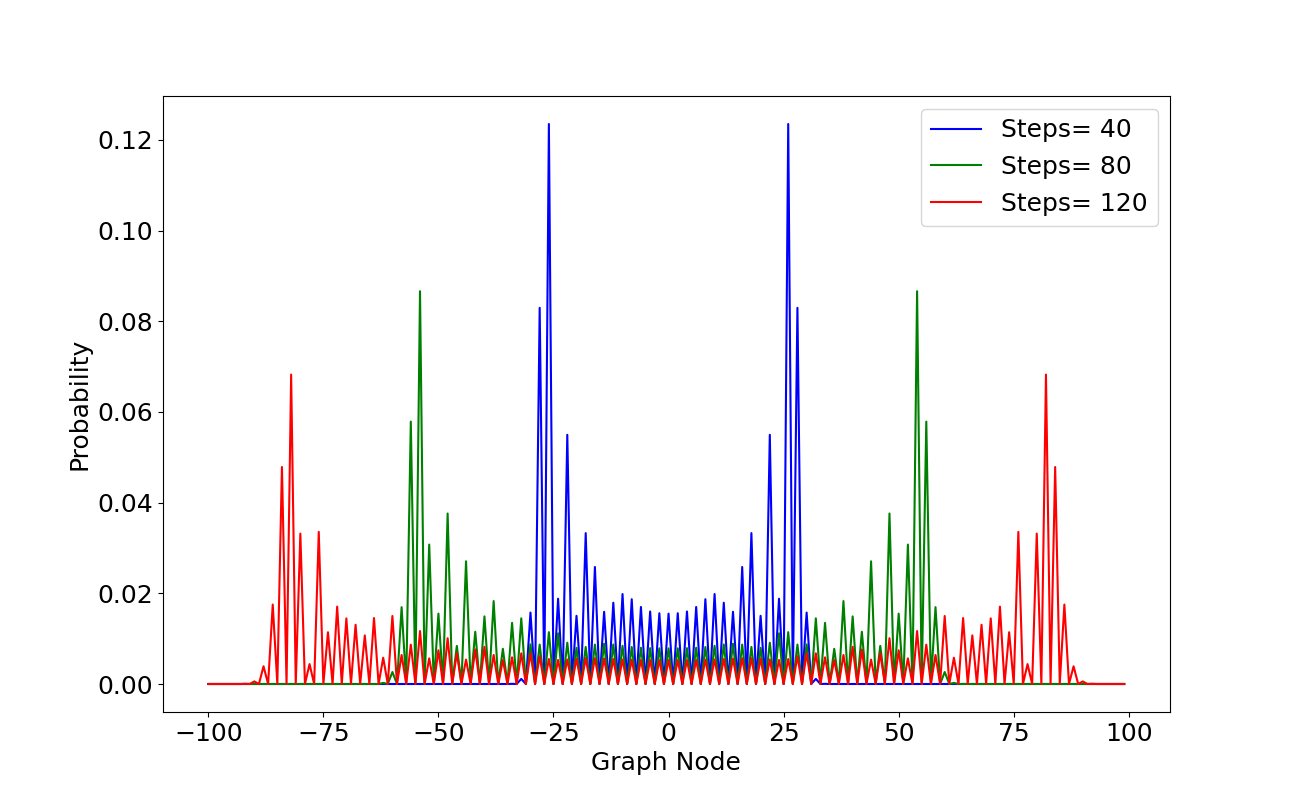
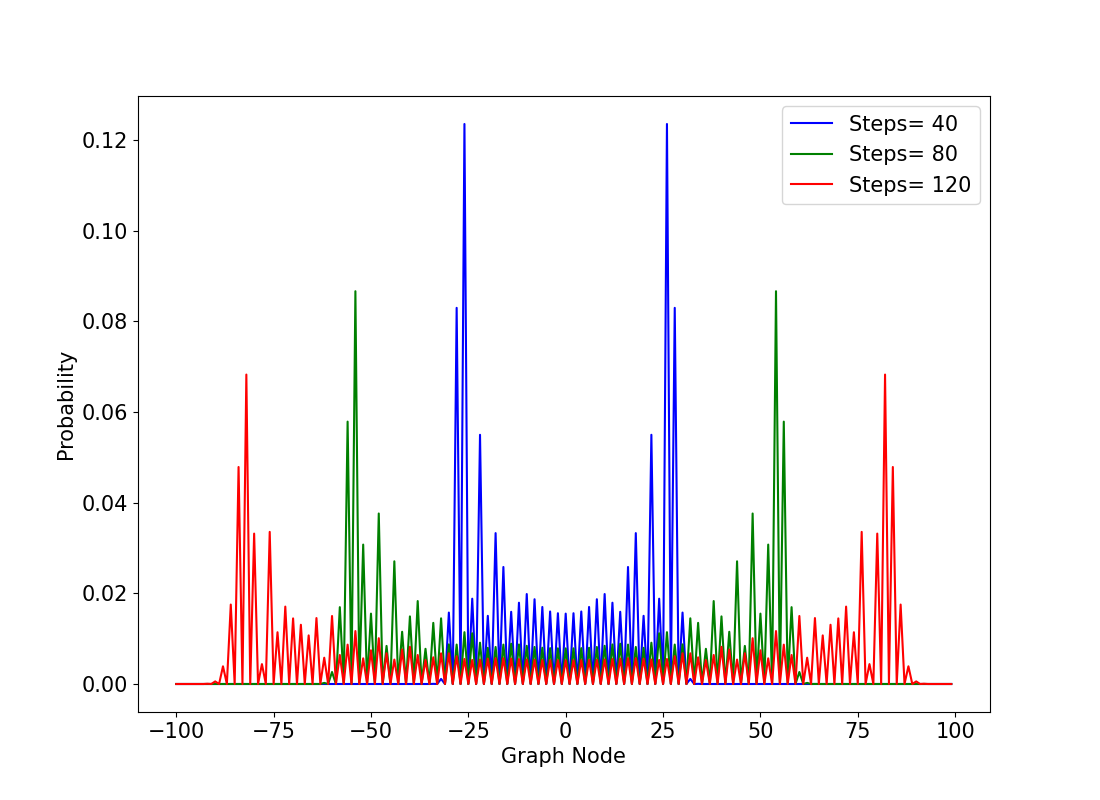
Continuous time plot results

diff --git a/Coding/Python Simulations/ContinuousQW/ctqw.py b/Coding/Python Simulations/ContinuousQW/ctqw.py
@@ -2,14 +2,16 @@ from numpy import *
 import matplotlib.pyplot as plt
 from graphs import *
 from scipy import linalg
+rcParams['figure.figsize'] = 11, 8
+matplotlib.rcParams.update({'font.size': 15})
 
-def init_state(N): #generalizar isto ?
+def init_state(N,initcond): #generalizar isto ?
     psi0 = np.zeros((N,1))
-    # psi0[int(N/2)-1] = 1/sqrt(2)
-    # psi0[int(N/2)+1] = 1/sqrt(2)
-    # psi0[0] = 1/sqrt(2)
-    psi0[int(N/2)-1] = 1/sqrt(2)
-    psi0[int(N/2)] = 1/sqrt(2)
+    if initcond == 'sup':
+        psi0[int(N/2)-1] = 1/sqrt(2)
+        psi0[int(N/2)] = 1/sqrt(2)
+    if initcond== '0':
+        psi0[int(N/2)] = 1
     return psi0
 
 def final_state(Op,psi0):
@@ -26,38 +28,47 @@ def prob_vec(psiN,N):
         probs[x]=psiN[x]*conjugate(psiN[x]) #duvida aqui
     return probs
 
-def plotmultqw(N,prob,prob2,prob3):
-    # matplotlib.rcParams.update({'font.size': 14})
-
+def plotmultqw(N,prob1,prob2,prob3,label1,label2,label3,typeOfPlot,superposition):
     x = arange(-N/2,N/2)
-    plot(x,prob,'r',label="2")
-    plot(x,prob2,'g',label="4",linestyle="--")
-    plot(x,prob3,'b',label="8",linestyle="-") #plot the lines
-    legend(["2", "4","8"])
+    if typeOfPlot == 'Gamma':
+        plot(x,prob1,'b',label="Gamma= %s"%str(label1))
+        plot(x,prob2,'g',label="Gamma= %s"%str(label2))
+        plot(x,prob3,'r',label="Gamma= %s"%str(label3))
+    if typeOfPlot == 'Time':
+        plot(x,prob1,'b',label="Time Interval= %s"%str(label1))
+        plot(x,prob2,'g',label="Time Interval= %s"%str(label2))
+        plot(x,prob3,'r',label="Time Interval= %s"%str(label3))
+    legend()
     xlabel("Graph Node")
     ylabel("Probability")
-    show()
+    if typeOfPlot == 'Gamma':
+        savefig(r'C:\Users\Jaime\Documents\GitHub\Jaime-Santos-Dissertation\Results\Simulations\ContQuantumWalk\ctqwMultipleGamma')
+    if typeOfPlot == 'Time':
+        if superposition:
+            savefig(r'C:\Users\Jaime\Documents\GitHub\Jaime-Santos-Dissertation\Results\Simulations\ContQuantumWalk\ctqwMultipleTimeSuperposition')
+        else:
+            savefig(r'C:\Users\Jaime\Documents\GitHub\Jaime-Santos-Dissertation\Results\Simulations\ContQuantumWalk\ctqwMultipleTime')
+    clf()
 
-def plotqw(N,prob):
-    matplotlib.rcParams.update({'font.size': 14})
-    fig = figure()
-    ax=fig.add_subplot(1,1,1) #add_subplot(nrows, ncols, index, **kwargs)
+
+def plotqw(N,prob,superposition,initCond):
     x = np.linspace(-100,100,N)
     plot(x,prob) #plot the lines
     xlabel("Graph Node")
     ylabel("Probability")
-    show()
+    if superposition:
+        savefig(r'C:\Users\Jaime\Documents\GitHub\Jaime-Santos-Dissertation\Results\Simulations\ContQuantumWalk\ctqwSingleSup')
+    else:
+        savefig(r'C:\Users\Jaime\Documents\GitHub\Jaime-Santos-Dissertation\Results\Simulations\ContQuantumWalk\ctqwSinglePsi'+str(initCond))
+    clf()
 
-def ctqwalk(G, N, t, gamma):
+def ctqwalk(G, N, t, gamma, initState):
     A = G.adjacency_matrix()
     D = G.degree_matrix()
     L = G.laplacian()
-    psi0 = init_state(N)
-
+    psi0 = initState
     U = ct_evo(L,t,gamma)
-
     psiN = final_state(U,psi0)
-
     probvec = prob_vec(psiN,N)
     return probvec
 
@@ -65,16 +76,46 @@ def ctqwalk(G, N, t, gamma):
 
 N = 200
 t = 100
+t1 = 40
+t2 = 80
+t3 = 120
 gamma = 1/(2*np.sqrt(2)) #gamma otimo que aumenta a distancia das cristas
-# gamma = 1/(2*np.sqrt(3))
+
+gamma1 = 1/(2*np.sqrt(2)) 
+gamma2 = 1/(3*np.sqrt(2)) 
+gamma3 = 1/(4*np.sqrt(2)) 
 
 lg = Graph({})
-lg = lg.linegraph(N) #defined in graph.py, must have "pip install natsort" -> Future work: Remove the dependency
+lg = lg.linegraph(N) #defined in graph.py, must have "pip install natsort" -> TODO: Remove the dependency
 
-walkZero=ctqwalk(lg,N,t,gamma)
-# walkOne= ctqwalk(lg,N,t,1/(2*np.sqrt(4)))
-# walkTwo= ctqwalk(lg,N,t,1/(2*np.sqrt(8)))
-# plotmultqw(N,walkZero,walkOne,walkTwo)
+# # Single Plots
+initCond = '0'
+initState = init_state(N,initCond)
+qw = ctqwalk(lg,N,t,gamma,initState)
+plotqw(N,qw,False,initCond)
 
-plotqw(N,walkZero)
+qwGamma = ctqwalk(lg,N,t,gamma3,initState)
+plotqw(N,qwGamma,False,initCond+"LowerGamma")
+
+initCondSup = 'sup'
+initStateSup = init_state(N,initCondSup)
+qwSup = ctqwalk(lg,N,t,gamma,initStateSup)
+plotqw(N,qwSup,True,initCondSup)
+
+# # Multiple Plots
+qwg1 = ctqwalk(lg,N,t,gamma1,initState)
+qwg2 = ctqwalk(lg,N,t,gamma2,initState)
+qwg3 = ctqwalk(lg,N,t,gamma3,initState)
+plotmultqw(N,qwg1,qwg2,qwg3,gamma1,gamma2,gamma3,'Gamma',False)
+
+qwt1=ctqwalk(lg,N,t1,gamma,initState)
+qwt2=ctqwalk(lg,N,t2,gamma,initState)
+qwt3=ctqwalk(lg,N,t3,gamma,initState)
+plotmultqw(N,qwt1,qwt2,qwt3,t1,t2,t3,'Time',False)
+
+qwt1Sup=ctqwalk(lg,N,t1,gamma,initStateSup)
+qwt2Sup=ctqwalk(lg,N,t2,gamma,initStateSup)
+qwt3Sup=ctqwalk(lg,N,t3,gamma,initStateSup)
+plotmultqw(N,qwt1Sup,qwt2Sup,qwt3Sup,t1,t2,t3,'Time',superposition=True)
+
 

diff --git a/Coding/Python Simulations/CoinedQW/coinedQW.py b/Coding/Python Simulations/CoinedQW/coinedQW.py
@@ -1,7 +1,7 @@
 from numpy import *
 from matplotlib.pyplot import *
 rcParams['figure.figsize'] = 11, 8
-matplotlib.rcParams.update({'font.size': 14})
+matplotlib.rcParams.update({'font.size': 15})
 
 
 def coins(Matrix):
@@ -32,21 +32,14 @@ def walk_op(N,state0,state1):
     c01= outer(state0,state1)
     c10= outer(state1,state0)
     c11= outer(state1,state1)
-
     ShiftPlus = roll(eye(N),1,axis=0)
-    # print("Shift Plus:\n",ShiftPlus)
     ShiftMinus = roll(eye(N),-1,axis=0)
-    # print("Shift Minus:\n",ShiftMinus)
-    
-    Shift = kron(c00,ShiftPlus) + kron(c11,ShiftMinus)
- 
-    # print("Shift Matrix:\n",Shift)
+    Shift = kron(c00,ShiftPlus) + kron(c11,ShiftMinus) 
     return Shift
 
 def CU_op(coin, shift,N):
     U = shift.dot(kron(coin,eye(N)))
     return U
-
 
 def final_state(U,psi0,steps):
     for t in range(0,steps):
@@ -59,15 +52,15 @@ def prob_vec(psiN,N):
         probs[x]=psiN[x]*conjugate(psiN[x]) + psiN[N+x]*conjugate(psiN[N+x]) #duvida aqui
     return probs
 
-
-def plotqw(N,prob):
+def plotqw(N,prob,init):
     x = arange(-N/2,N/2)
-    # fig=figure(figsize=(50, 50))
     plot(x,prob) 
     xlabel("Graph Node")
     ylabel("Probability")
-
-    show()
+    savefig(r'C:\Users\Jaime\Documents\GitHub\Jaime-Santos-Dissertation\Results\Simulations\CoinedQuantumWalk\Coinedpsi0'+str(init))
+    clf()
+    cla()
+    close()
 
 def plotmultqw(N,prob1,prob2,prob3,steps1,steps2,steps3):
     x = arange(-N/2,N/2)
@@ -77,28 +70,20 @@ def plotmultqw(N,prob1,prob2,prob3,steps1,steps2,steps3):
     legend()
     xlabel("Graph Node")
     ylabel("Probability")
-    show()
+    savefig(r'C:\Users\Jaime\Documents\GitHub\Jaime-Santos-Dissertation\Results\Simulations\CoinedQuantumWalk\CoinedMultiplepsi001')
+    clf()
 
-
-def cqwalk(N,Steps,state0,state1):
+def cqwalk(N,Steps,state0,state1,initcond):
     P = int((N+1)/2)
-    
     Coin = coins("H")
-
     shift= walk_op(N,state0,state1)
-
     U = CU_op(Coin,shift,N)
-
-    coinstate = init_cond("1",state0,state1)
-
+    coinstate = initcond
     amp = array([1])
     psi0 = init_state(N,array([P]),amp,coinstate)
     psiN = final_state(U,psi0,Steps)
     probvec = prob_vec(psiN,N)
-    
     return probvec
-    # plotqw(N,probvec)
-
     
 N = 200
 steps = 100
@@ -109,11 +94,23 @@ steps3 = 120
 state0 = array([1,0])
 state1 = array([0,1])
 
-qw = cqwalk(N,steps,state0,state1)
-plotqw(N,qw)
-# Multiple plots
-# qw1=cqwalk(N,steps1,state0,state1)
-# qw2=cqwalk(N,steps2,state0,state1)
-# qw3=cqwalk(N,steps3,state0,state1)
+init = '01'
+initcond = init_cond(init,state0,state1)
+init1 = '1'
+initcond1 = init_cond(init1,state0,state1)
+init2 = '0'
+initcond2 = init_cond(init2,state0,state1)
 
-# plotmultqw(N,qw1,qw2,qw3,steps1,steps2,steps3)
+# # Single Plots
+qw = cqwalk(N,steps,state0,state1,initcond)
+plotqw(N,qw,init)
+qwx = cqwalk(N,steps,state0,state1,initcond1)
+plotqw(N,qwx,init1)
+qwy = cqwalk(N,steps,state0,state1,initcond2)
+plotqw(N,qwy,init2)
+
+# # Multiple plots
+qw1=cqwalk(N,steps1,state0,state1,initcond)
+qw2=cqwalk(N,steps2,state0,state1,initcond)
+qw3=cqwalk(N,steps3,state0,state1,initcond)
+plotmultqw(N,qw1,qw2,qw3,steps1,steps2,steps3)

diff --git a/Coding/Python Simulations/ContinuousQW/graphs.py b/Coding/Python Simulations/ContinuousQW/graphs.py
@@ -167,14 +167,14 @@ class Graph(object):
 
 
 ##################################TESTS##########################################################
-N=4
-g = Graph({})
-graph = g.bipartite_linegraph(N)
+# N=4
+# g = Graph({})
+# graph = g.bipartite_linegraph(N)
 # i=0
 # v= graph.vertex_degreeprob(str(i))
 # print(v)
-adjl = graph.adjacency_list()
-adjm = graph.adjacency_matrix()
-print(adjm)
-print(adjl)
+# adjl = graph.adjacency_list()
+# adjm = graph.adjacency_matrix()
+# print(adjm)
+# print(adjl)
 #print(graph)

diff --git a/Coding/Python Simulations/Grover/groverSearch.py b/Coding/Python Simulations/Grover/groverSearch.py
@@ -3,7 +3,7 @@ from matplotlib.pyplot import *
 import matplotlib
 from scipy import linalg
 rcParams['figure.figsize'] = 11, 8
-matplotlib.rcParams.update({'font.size': 14})
+matplotlib.rcParams.update({'font.size': 15})
 
 def init(N):
     psi0 = np.ones((N,1))/ np.sqrt(N)
